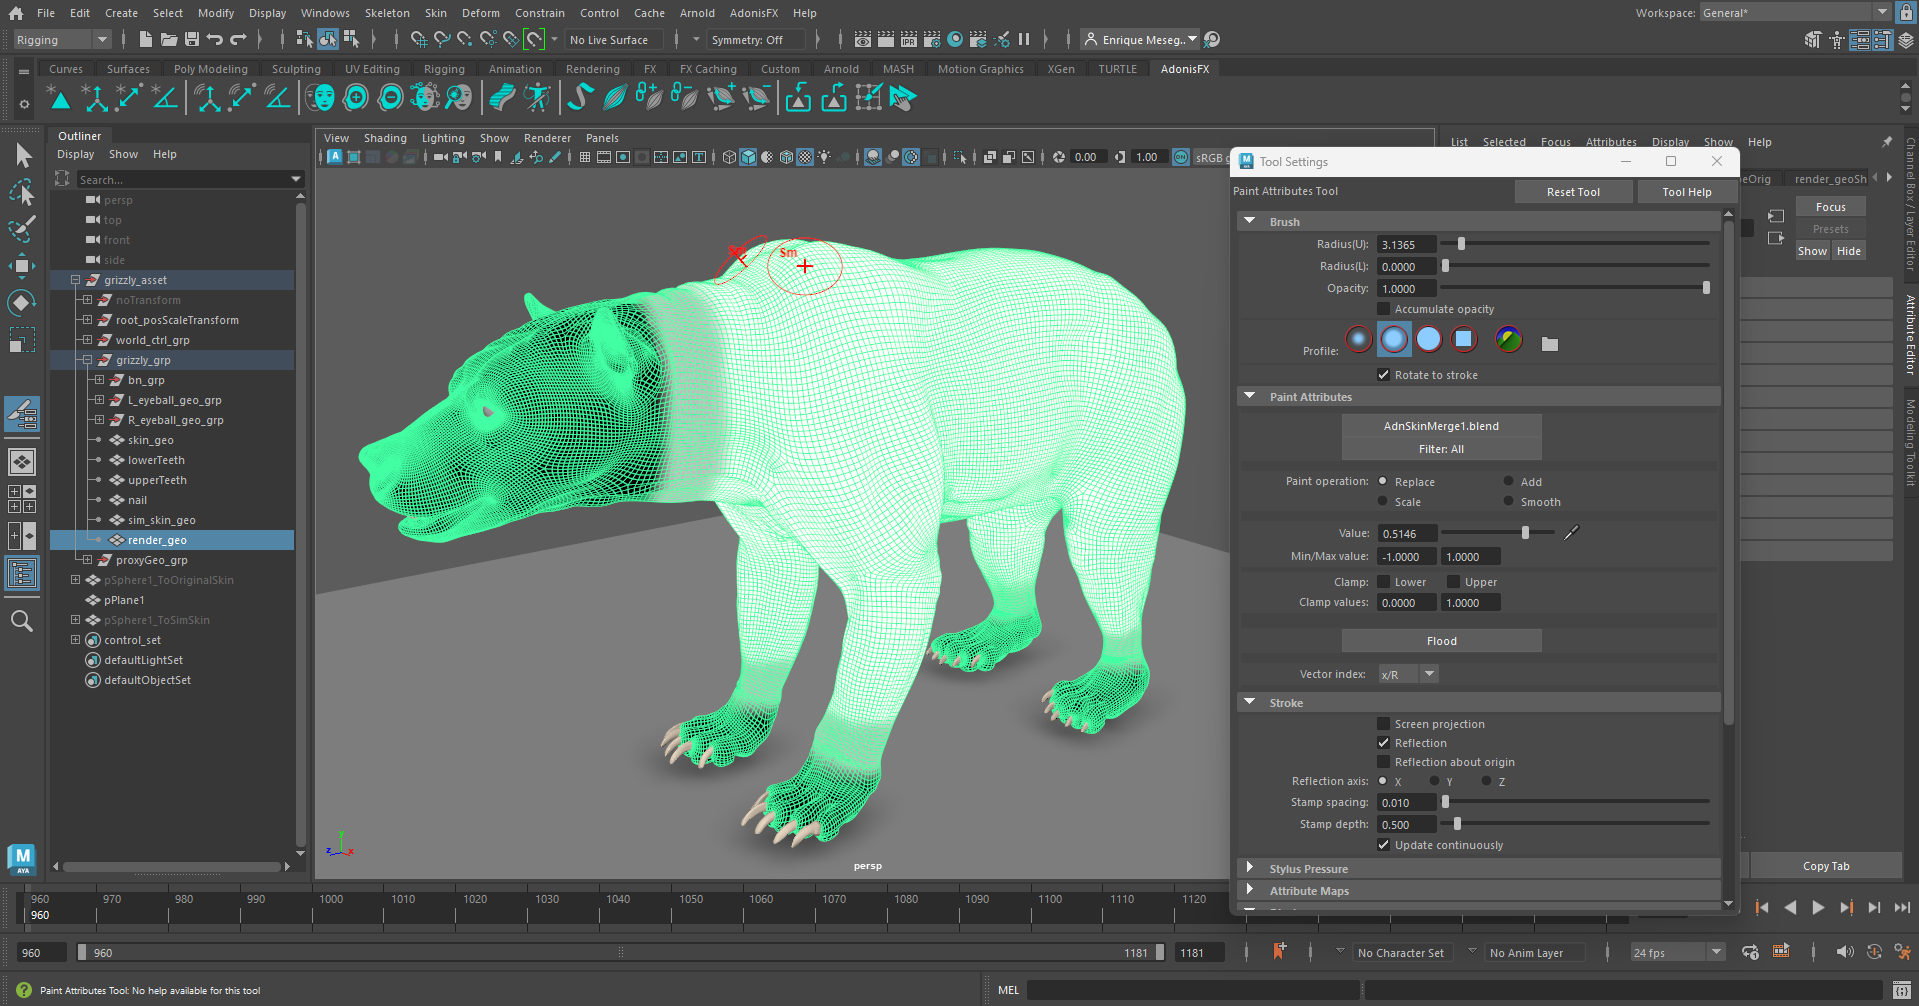
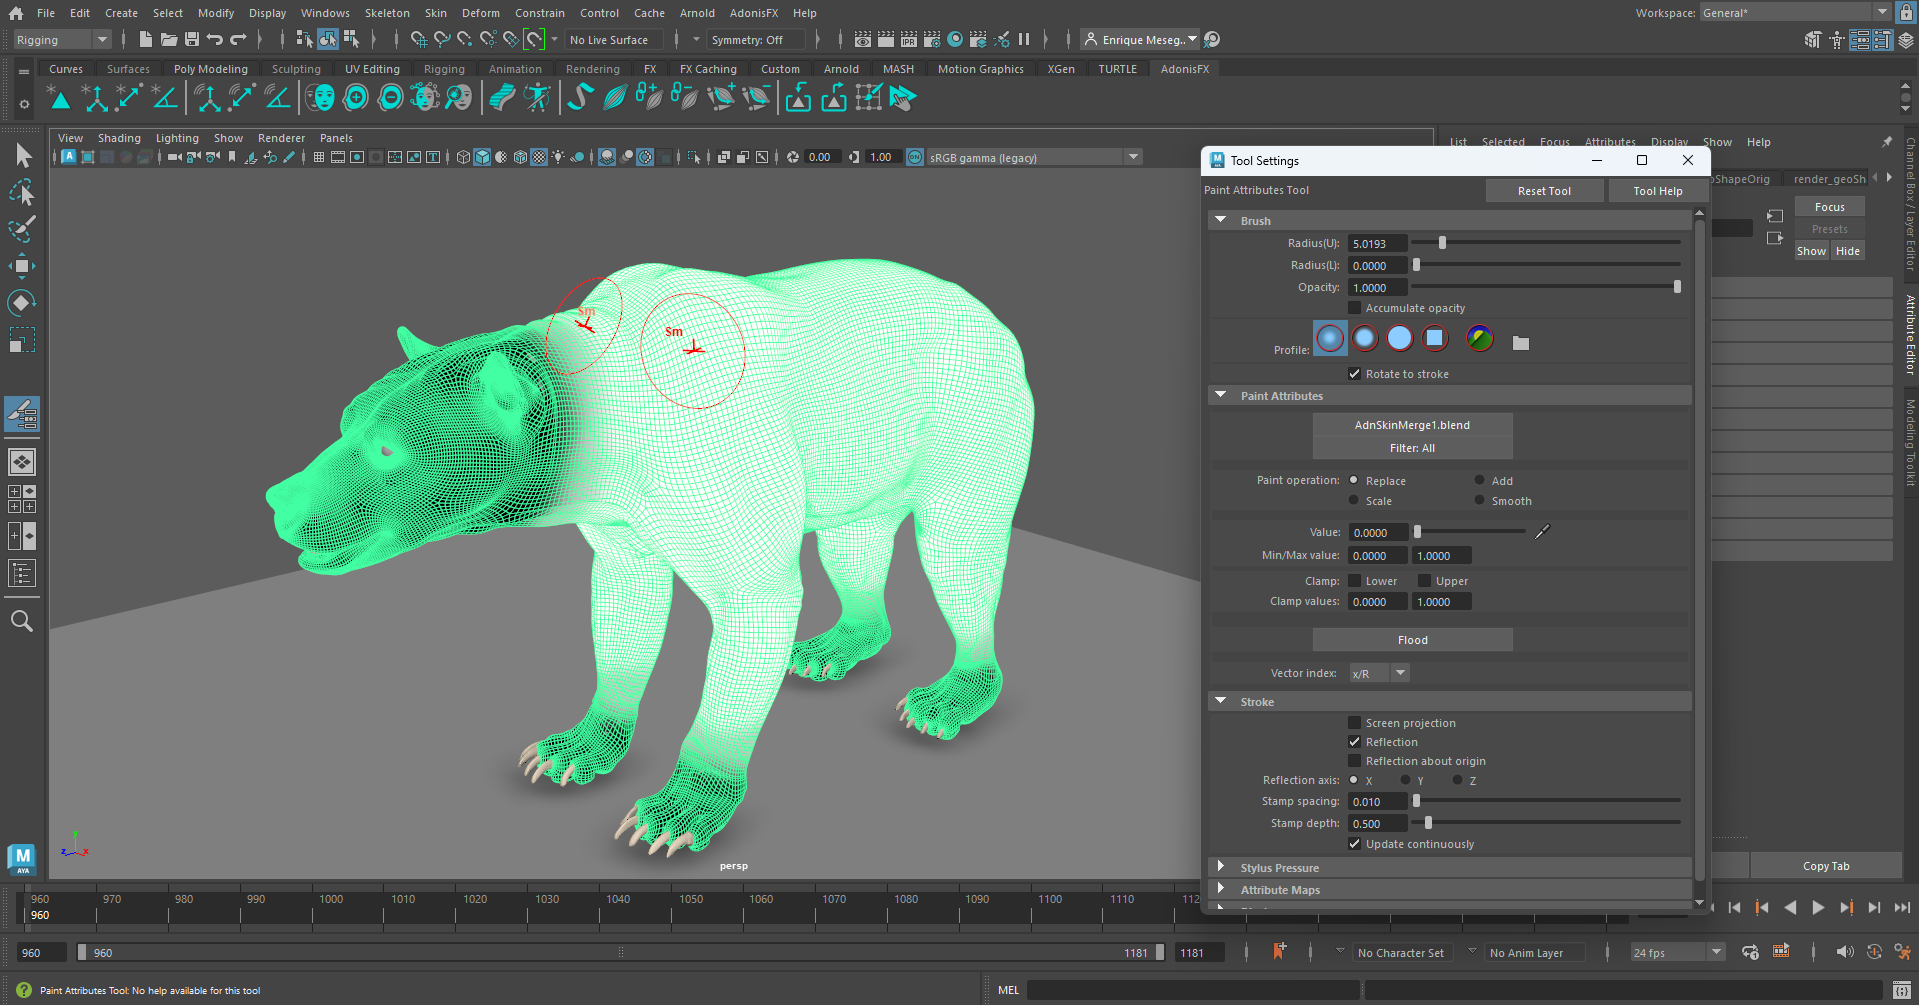
Updated skin merge paint weights screenshots to have better smoothing.  - Small phrasing changes and corrections.

diff --git a/docs/maya/simple_setup.md b/docs/maya/simple_setup.md
@@ -323,8 +323,8 @@ In the attribute editor of the AdnSimshape deformer, under the *Muscles Activati
 To create a basic scenario using the AdnSkinMerge deformer, start with a scene with the following elements:
 
   - One or more animation meshes with deformation.
-  - A skin mesh with an AdnSkin deformer applied and configured.
   - One or more simulation meshes, for example with an AdnSkin deformer applied and properly configured.
+   - A final mesh without animation or deformation.
 
 The AdnSkinMerge deformer will get applied to the final mesh which will  be the result of blending the animation and simulation meshes.
 

diff --git a/docs/maya/skin_merge.md b/docs/maya/skin_merge.md
@@ -35,7 +35,7 @@ The process to create an AdnSkinMerge deformer is:
 
 4. Set a custom name to the deformer and specify the initialization time.
 
-5. Press the "Create" button and a message box will notify you that AdnSkinMerge has been created properly. The final mesh will follow the animation mesh inputs by default.
+5. Press the *Create* button and a message box will notify you that AdnSkinMerge has been created properly. The final mesh will follow the animation mesh inputs by default.
 
 6. To modulate the influence of the simulation mesh inputs, use the maya paintable context and customize the blend weights map.
 
